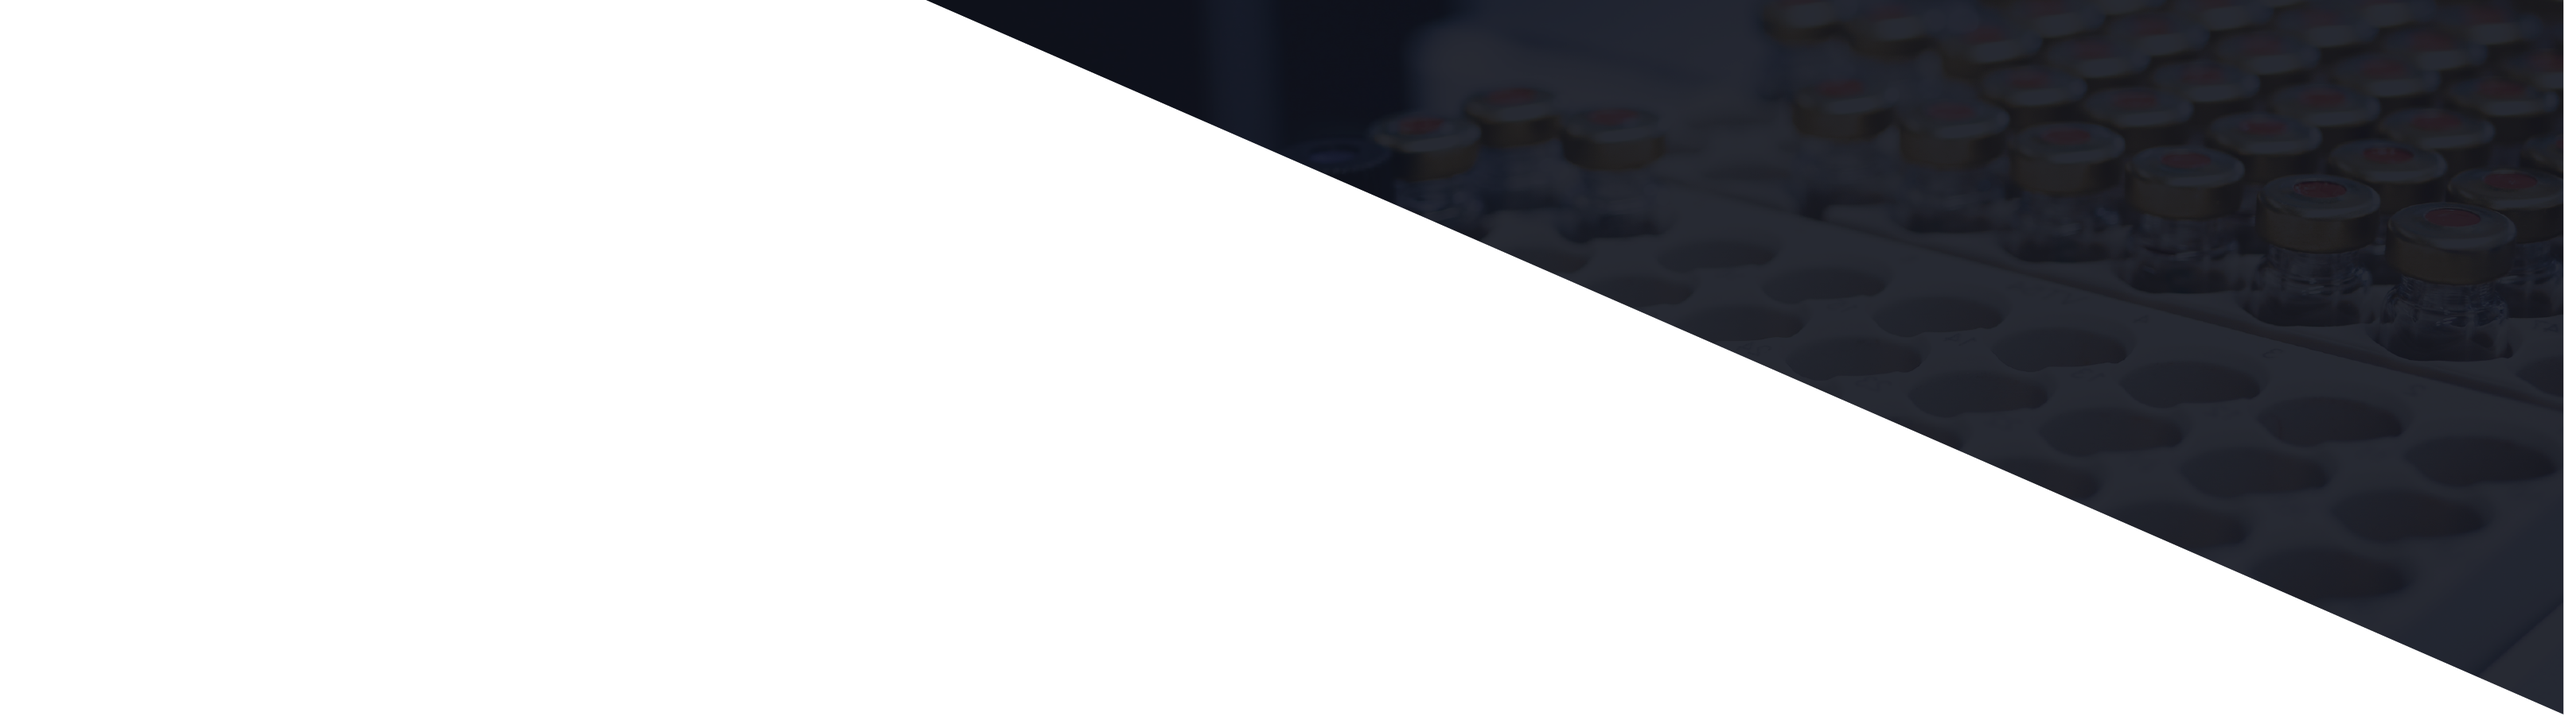
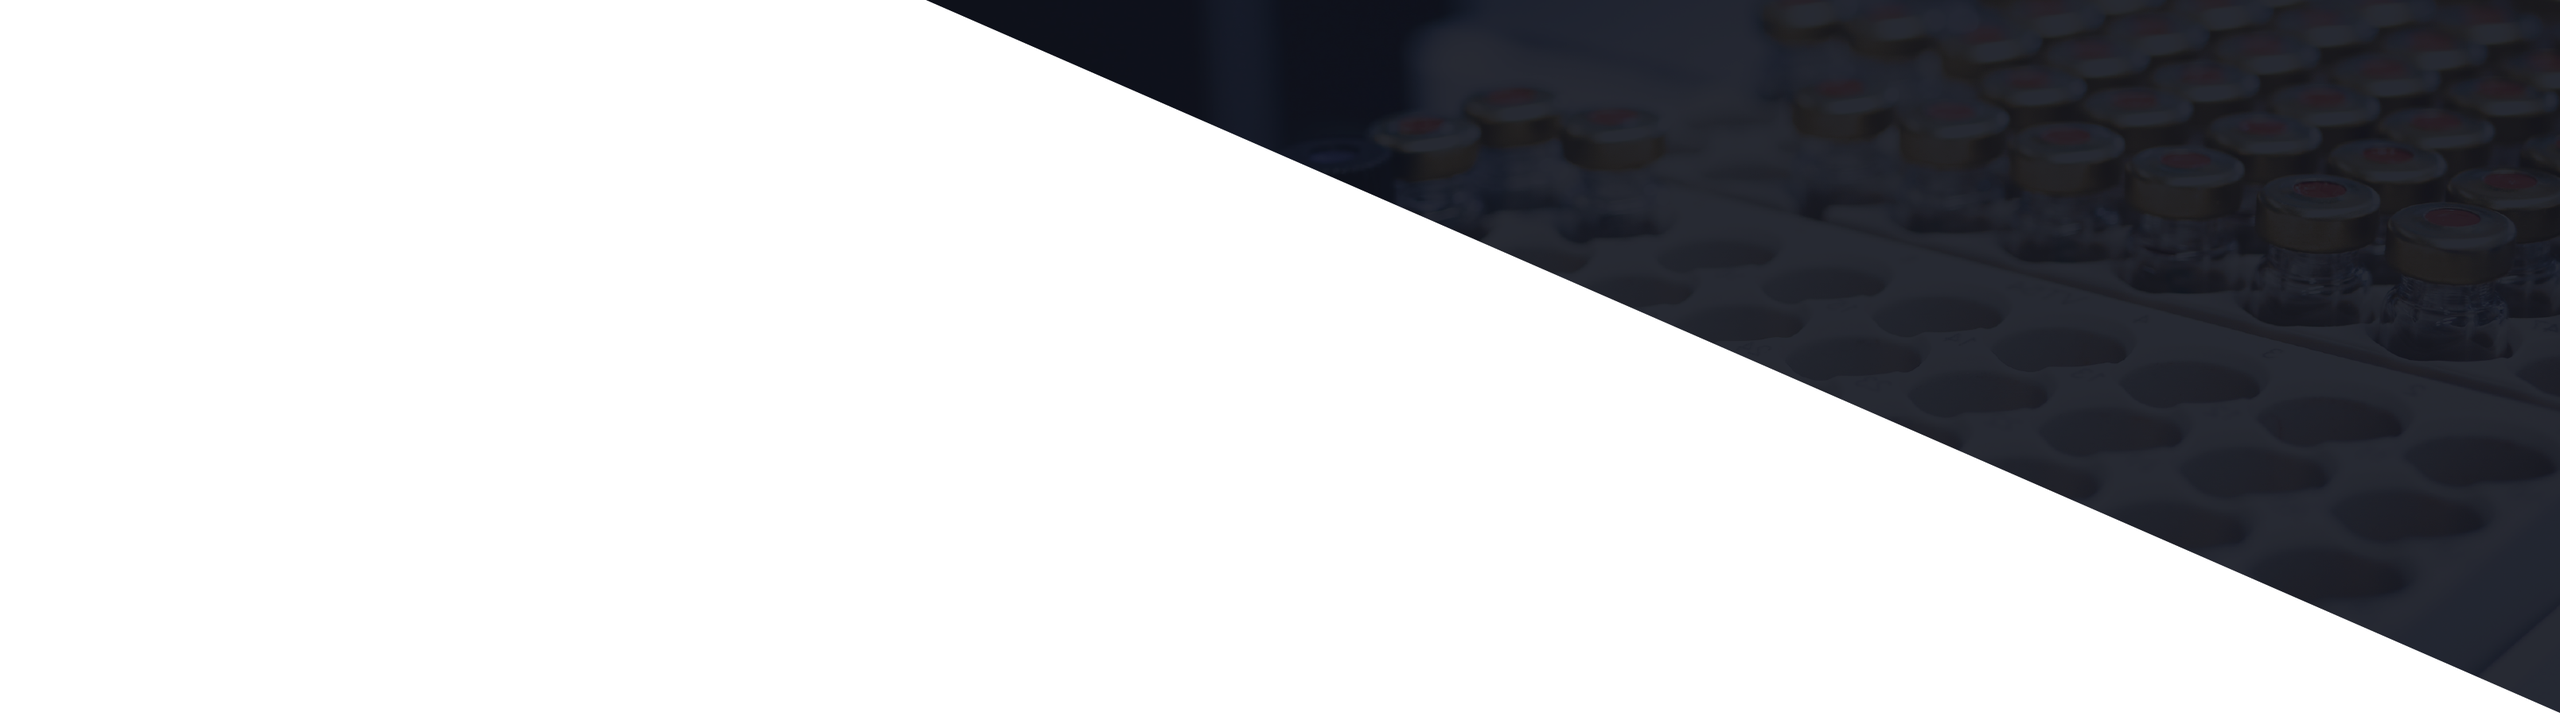
user component files added

diff --git a/client/src/user/components/NewsLetter.jsx b/client/src/user/components/NewsLetter.jsx
@@ -15,34 +15,35 @@ const NewsLetter = () => {
         className="absolute inset-0 w-full h-full object-cover"
       />
       <div className="relative z-10 flex flex-col items-center justify-center h-[130vh] text-white md:px-4 px-2">
-        <div className="w-[90%] md:w-[50%] bg-black bg-opacity-80 py-12 md:px-10 sm:px-6 px-4  flex flex-col gap-6 items-center justify-center rounded-lg">
+        <div className="w-[90%] md:w-[50%] bg-black bg-opacity-80 py-12 md:px-10 sm:px-6 px-4 flex flex-col gap-6 items-center justify-center rounded-lg">
           <div className="text-center space-y-2">
-            <h2 className="md:text-[26px] text-[16px] font-[600]">
+            <h2 className="xl:text-[26px] lg:text-[26px] md:text-[26px] text-[22px] font-[600]">
               SUBSCRIBE TO OUR NEWSLETTER
             </h2>
             <p className="font-medium text-secondary">
               ENJOY PROMOTIONS AND DISCOUNTS
             </p>
           </div>
-          <form className="w-full flex flex-col md:gap-3 sm:gap-1 gap-0 space-y-4">
+          <form className="w-full flex flex-col md:gap-3 sm:gap-1 gap-0 space-y-2">
             <input
               type="text"
               placeholder="First Name"
-              className="w-full md:px-4 px-3 py-4 rounded-full  bg-transparent border border-secondary text-secondary focus:outline-none"
+              className="w-full md:px-4 px-3 py-4 rounded-full font-semibold bg-transparent border-2 border-secondary text-secondary placeholder-secondary focus:outline-none"
             />
             <input
               type="email"
-              placeholder="Email"
-              className="w-full px-4 py-4 rounded-full bg-transparent border border-secondary text-secondary focus:outline-none"
+              placeholder="Email Address"
+              className="w-full px-4 py-4 rounded-full bg-transparent font-semibold border-2 border-secondary placeholder-secondary text-secondary focus:outline-none"
             />
-            <div className="flex items-center w-full px-2 py-4 rounded-full border border-secondary  bg-transparent text-secondary focus-within:ring-2 focus:outline-none">
+            <div className="flex items-center w-full px-2 py-4 rounded-full font-semibold border-2 border-secondary bg-transparent text-secondary focus-within:ring-2 focus:outline-none">
               <PhoneInput
                 placeholder="Enter phone number"
                 international
                 defaultCountry="US"
+                countryCallingCodeEditable={false}
                 value={phone}
                 onChange={setPhone}
-                className="flex-1 [&>input]:bg-transparent [&>input]:text-secondary [&>input]:placeholder:text-secondary [&>input]:outline-none [&>input]:ring-0 focus:[&>input]:outline-none focus:[&>input]:ring-0"
+                className="ml-3 flex-1 [&>input]:bg-transparent [&>input]:text-secondary [&>input]:placeholder:text-secondary [&>input]:outline-none [&>input]:ring-0 focus:[&>input]:outline-none focus:[&>input]:ring-0"
               />
             </div>
 
@@ -52,11 +53,11 @@ const NewsLetter = () => {
             >
               SUBSCRIBE
             </button>
-            <label className="flex items-center font-[700] text-[16px] gap-2">
-              <input type="checkbox" className="accent-blue-400" />
-              Text me with offers and updates
+            <label className="flex items-center font-semibold text-[16px] gap-2 text-secondary">
+              <input type="checkbox" className="w-3 h-3 accent-blue-400" />
+                Text me with offers and updates
             </label>
-            <div className=" text-secondary flex items-center justify-between gap-2">
+            <div className="text-secondary font-semibold flex items-center justify-between gap-2">
               <p className="text-xs">
                 We promise not to spam you. Read our privacy policy for more
                 information.

diff --git a/client/src/user/pages/ShippingRefund.jsx b/client/src/user/pages/ShippingRefund.jsx
@@ -8,14 +8,14 @@ const ShippingRefund = () => {
         className="flex items-center justify-center w-full min-h-[40vh] bg-cover bg-center "
         style={{ backgroundImage: `url(${Background})` }}
       >
-        <div className=" md:mt-8 mt-4 w-[90%] text-gradient md:text-[60px] text-[32px] leading-tight font-[700]">
-          <h1 className=" lg:w-[40%]  w-[100%]">Shipping, Returns & Refunds</h1>
+        <div className="md:mt-8 mt-4 w-[90%] text-gradient md:text-[60px] text-[32px] leading-tight font-[700]">
+          <h1 className="md:ml-16 lg:w-[40%] w-[100%]">Shipping, Returns & Refunds</h1>
         </div>
       </div>
-      <div className="flex  items-center justify-center w-[100%] text-[15px] leading-[26px] font-[500]">
+      <div className="flex items-center justify-center w-[100%] text-[15px] leading-[26px] font-[500]">
         <div className="flex flex-col gap-6 items-start md:w-[80%] w-[90%] text-[#666]">
           <div className="flex flex-col gap-5 ">
-            <h1 className="md:text-[28px] text-[22px] font-[700] leading-[28px] text-[#333]">
+            <h1 className="md:mt-12 md:text-[28px] text-[22px] font-[700] leading-[28px] text-[#333]">
               Shipping
             </h1>
             <p>

diff --git a/client/src/user/components/HeroSection.jsx b/client/src/user/components/HeroSection.jsx
@@ -5,11 +5,11 @@ const heropd = require("../../assets/hero-product.webp");
 const HeroSection = () => {
   return (
     <div
-      className="w-full  flex items-start justify-center py-10 lg:h-[75vh] bg-cover bg-center "
+      className="w-full flex items-start justify-center py-10 lg:h-[75vh] bg-cover bg-center "
       style={{ backgroundImage: `url(${herobg})` }}
     >
-      <div className="md:w-[80%] w-[90%] flex lg:flex-row flex-col xl:gap-8 lg:gap-0 gap-4">
-        <div className="lg:w-1/2  flex flex-col items-start justify-center gap-4 mb-8">
+      <div className="md:w-[80%] w-[90%] flex lg:flex-row lg:mt-5 flex-col xl:gap-8 lg:gap-0 gap-4">
+        <div className="lg:w-1/2 flex flex-col items-start justify-center gap-4 mb-8">
           <h1 className="text-gradient text-[42px]  leading-tight font-bold">
             HIGHEST QUALITY PEPTIDES FOR SALE
           </h1>
@@ -24,7 +24,7 @@ const HeroSection = () => {
             BUY PEPTIDES
           </a>
         </div>
-        <div className="lg:w-1/2 flex items-center justify-center  ">
+        <div className="lg:w-1/2 flex items-center justify-center">
           <img src={heropd} alt="product" className="lg:mt-14" />
         </div>
       </div>

diff --git a/client/src/user/pages/TermsCondition.jsx b/client/src/user/pages/TermsCondition.jsx
@@ -8,14 +8,14 @@ const TermsCondition = () => {
         className="flex items-center justify-center w-full min-h-[40vh] bg-cover bg-center "
         style={{ backgroundImage: `url(${Background})` }}
       >
-        <div className=" md:mt-8 mt-4 w-[90%] text-gradient md:text-[60px] text-[32px] leading-tight font-[700]">
-          <h1 className=" lg:w-[50%]  w-[100%]">TERMS AND CONDITIONS</h1>
+        <div className="md:mt-8 mt-4 w-[90%] text-gradient md:text-[60px] text-[32px] leading-tight font-[700]">
+          <h1 className="md:ml-16 lg:w-[50%] w-[100%]">TERMS AND CONDITIONS</h1>
         </div>
       </div>
-      <div className="flex  items-center justify-center w-[100%] text-[15px] leading-[26px] font-[500]">
+      <div className="flex items-center justify-center w-[100%] text-[15px] leading-[26px] font-[500]">
         <div className="flex flex-col gap-6 items-start md:w-[80%] w-[90%] text-[#666]">
           <div className="flex flex-col gap-5 ">
-            <h3 className="text-[18px] font-[700]  text-[#333]">
+            <h3 className="text-[18px] font-[700] text-[#333]">
               INTRODUCTION
             </h3>
             <p>

diff --git a/client/src/user/components/ProductDetails.jsx b/client/src/user/components/ProductDetails.jsx
@@ -229,7 +229,7 @@ const ProductDetails = () => {
             </div>
 
             <div className="mt-12">
-              <div className="flex md:flex-row flex-col border-b border-gray-300">
+              <div className="flex md:flex-row flex-col">
                 {tabs.map((tab) => (
                   <button
                     key={tab.id}
@@ -246,7 +246,7 @@ const ProductDetails = () => {
               </div>
 
               {/* Tab Content */}
-              <div className="py-6">
+              <div className="py-6 px-6 border border-gray-300">
                 {activeTab === "description" && (
                   <div
                     className="prose prose-sm max-w-full overflow-hidden break-words [&_h2]:text-2xl [&_h2]:font-bold [&_h2]:mb-4 [&_h2]:text-gray-800 [&_h3]:text-xl [&_h3]:font-bold [&_h3]:mb-3 [&_h3]:text-gray-700 [&_p]:mb-4 [&_p]:text-gray-600 [&_p]:leading-relaxed [&_ul]:mb-4 [&_ul]:ml-6 [&_li]:mb-2 [&_li]:text-gray-600 [&_ol]:mb-4 [&_ol]:ml-6 [&_a]:text-blue-600 [&_a]:underline [&_strong]:font-bold [&_em]:italic"

diff --git a/client/src/user/components/ProductItemms.jsx b/client/src/user/components/ProductItemms.jsx
@@ -115,7 +115,7 @@ const ProductItems = () => {
   return (
     <div className="flex items-center justify-center my-16">
       <div className="flex flex-col items-center w-[100%]">
-        <div className="md:text-[26px] text-[20px] font-[700] leading-[32px]">
+        <div className="md:text-[26px] lg:text-[32px] xl:text-[32px] text-[26px] font-[700] leading-[32px] text-gray-800">
           Research Peptides For Sale
         </div>
         <div className="flex md:flex-row flex-col items-start justify-between gap-4 md:w-[80%] w-[90%] p-2 my-8">
@@ -123,7 +123,7 @@ const ProductItems = () => {
             Showing all {products.length} results
           </p>
           <select
-            className="border border-black px-2 py-1 md:text-md text-sm rounded-sm"
+            className="border border-black px-2 py-1 md:text-md text-sm rounded-sm font-[400]"
             value={sortOption}
             onChange={handleSortChange}
           >

diff --git a/client/src/user/pages/PrivacyPolicy.jsx b/client/src/user/pages/PrivacyPolicy.jsx
@@ -5,10 +5,10 @@ const PrivacyPolicy = () => {
   return (
     <div className="flex flex-col items-end gap-14 mb-20">
       <div
-        className="flex items-center justify-center w-full min-h-[40vh] bg-cover bg-center "
-        style={{ backgroundImage: `url(${Background})` }}
+        className="flex items-center justify-center w-full min-h-[40vh] bg-cover bg-center"
+        style={{ backgroundImage: `url(${Background})`}}
       >
-        <h1 className=" md:mt-8 mt-4 w-[90%] text-gradient md:text-[60px] text-[32px] leading-tight font-[700]">
+        <h1 className="md:ml-28 md:mt-8 mt-4 w-[90%] text-gradient md:text-[60px] text-[32px] leading-tight font-[700]">
           PRIVACY POLICY
         </h1>
       </div>

diff --git a/client/src/user/components/PeptidesHome.jsx b/client/src/user/components/PeptidesHome.jsx
@@ -28,7 +28,7 @@ const PeptidesHome = () => {
             available. We offer custom peptides for sale online.
           </p>
         </div>
-        <div className="md:w-1/2   p-4 flex flex-col justify-end items-center">
+        <div className="md:w-1/2 p-4 flex flex-col justify-end items-center">
           <a
             href="/user/peptides"
             className="lg:text-2xl sm:text-[25px] text-[20px] font-medium bg-gradient lg:py-5 py-3 lg:px-10 sm:px-8 px-6  lg:mt-60 rounded-full btn-gradient "

diff --git a/client/src/service/service.jsx b/client/src/service/service.jsx
@@ -1,8 +1,9 @@
 // services/apiService.js
 import axios from "axios";
 
-const BASE_URL = "http://localhost:5000/api/v1";
-// const BASE_URL ="http://usapeptide-env.eba-gwmh4bqi.us-east-1.elasticbeanstalk.com/api/v1";
+// const BASE_URL = "http://localhost:5000/api/v1";
+const BASE_URL =
+  "http://usapeptide-env.eba-gwmh4bqi.us-east-1.elasticbeanstalk.com/api/v1";
 
 //Authentication//
 export const login = (email, password) => {

diff --git a/client/src/user/pages/Peptides.jsx b/client/src/user/pages/Peptides.jsx
@@ -15,8 +15,8 @@ const Peptides = () => {
               Research Peptides For Sale
             </h1>
           </div>
-          <div className="lg:w-1/2">
-            <img src={heropd} alt="product" />
+          <div className="lg:w-1/2 flex items-center justify-center">
+            <img src={heropd} alt="product" className="lg:mt-14"/>
           </div>
         </div>
       </div>
